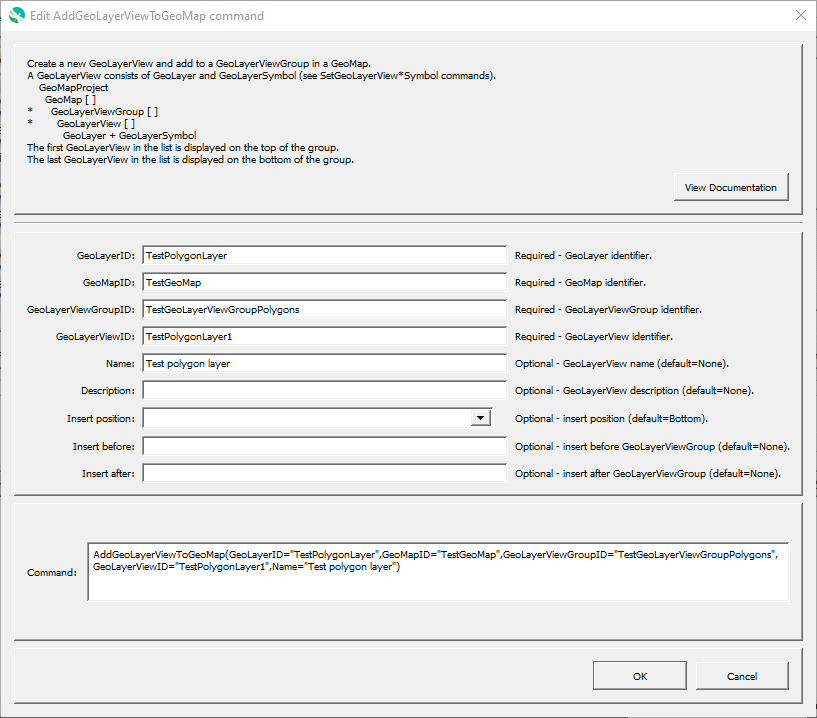
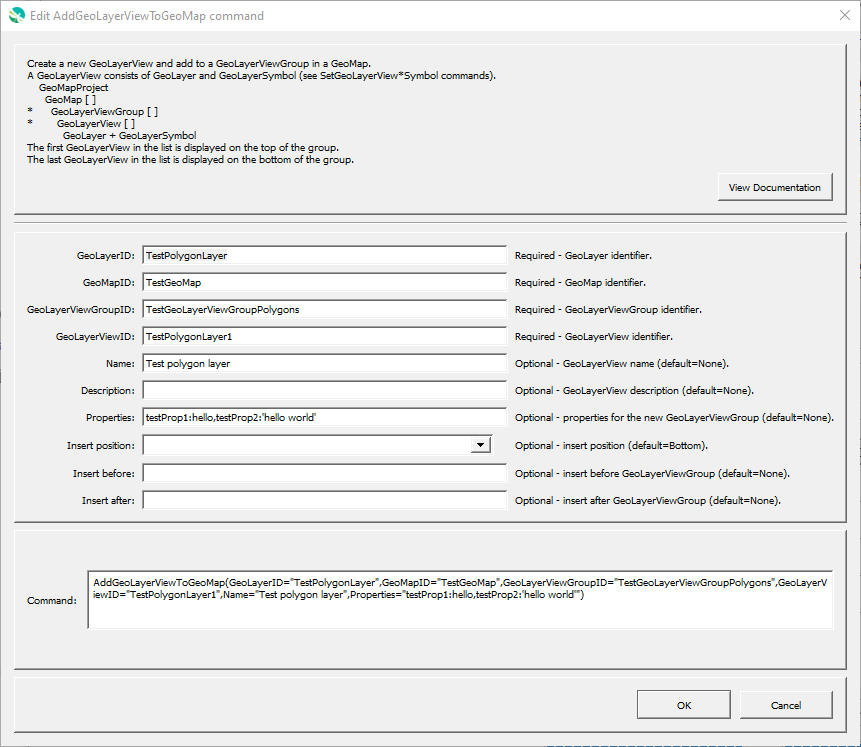
Add Properties to AddGeoLayerViewToGeoMap, issue #27

Changed region(s): [[0.0, 0.0613, 1.0, 1.0], [0.0306, 0.0613, 0.612, 0.2451], [0.0, 0.0, 0.3366, 0.0306]]

diff --git a/mkdocs-project/docs/command-ref/CreateGeoMap/CreateGeoMap.md b/mkdocs-project/docs/command-ref/CreateGeoMap/CreateGeoMap.md
@@ -62,6 +62,7 @@ Command Parameters
 | `Description` | Description for the new GeoMap. | None - must be specified. |
 |`CRS` <br> **required** | The [coordinate reference system](https://en.wikipedia.org/wiki/Spatial_reference_system) of the new GeoMap. [EPSG or ESRI code format](http://spatialreference.org/ref/epsg/) required (e.g. [`EPSG:4326`](http://spatialreference.org/ref/epsg/4326/), [`EPSG:26913`](http://spatialreference.org/ref/epsg/nad83-utm-zone-13n/), [`ESRI:102003`](http://spatialreference.org/ref/esri/usa-contiguous-albers-equal-area-conic/)). |None - must be specified. |
 | `DataPath` | A comma-separated list of file system or URL folders containing data for layers.  The folders should be relative to the location of the GeoMapProject file. | `.` |
+| `Properties` | Additional properties to assign to the GeoMap, using format: `prop1:value1,prop2:'string with space'`.  Can use `${Property}` notation.  | No additional properties are assigned. |
 |`IfGeoMapIDExists`|The action that occurs if the `NewGeoMapID` already exists within the GeoProcessor:<ul><li>`Replace` - The existing GeoMap within the GeoProcessor is replaced with the new GeoMap. No warning is logged.</li><li>`ReplaceAndWarn` - The existing GeoMap within the GeoProcessor is replaced with the new GeoMap. A warning is logged.</li><li>`Warn` - The new GeoMap is not created. A warning is logged.</li><li>`Fail` - The new GeoMap is not created. A fail message is logged.</li></ul> | `Replace` | 
 
 ## Examples ##

diff --git a/mkdocs-project/docs/command-ref/AddGeoLayerViewToGeoMap/AddGeoLayerViewToGeoMap.md b/mkdocs-project/docs/command-ref/AddGeoLayerViewToGeoMap/AddGeoLayerViewToGeoMap.md
@@ -48,6 +48,7 @@ Command Parameters
 | `GeoLayerViewID` <br> **required** | The ID of the new GeoLayerView. | None - must be specified. |
 | `Name` | Name of the new GeoLayerView, used to label the layer in the map legend. | None - must be specified. |
 | `Description` | Description for the new GeoLayerView. | |
+| `Properties` | Additional properties to assign to the GeoLayerView, using format: `prop1:value1,prop2:'string with space'`.  Can use `${Property}` notation.  | No additional properties are assigned. |
 | `InsertPosition` | The position to insert the GeoLayerView within the GeoLayerViewGroup:<ul><li>`Top` - top of the list (will be drawn on top).</li><li>`Bottom` - bottom of the list (will be drawn on the bottom).</li></ul> | `Bottom` | 
 | `InsertBefore` | The GeoLayerViewID to insert before. | |
 | `InsertAfter` | The GeoLayerViewID to insert after. | |
